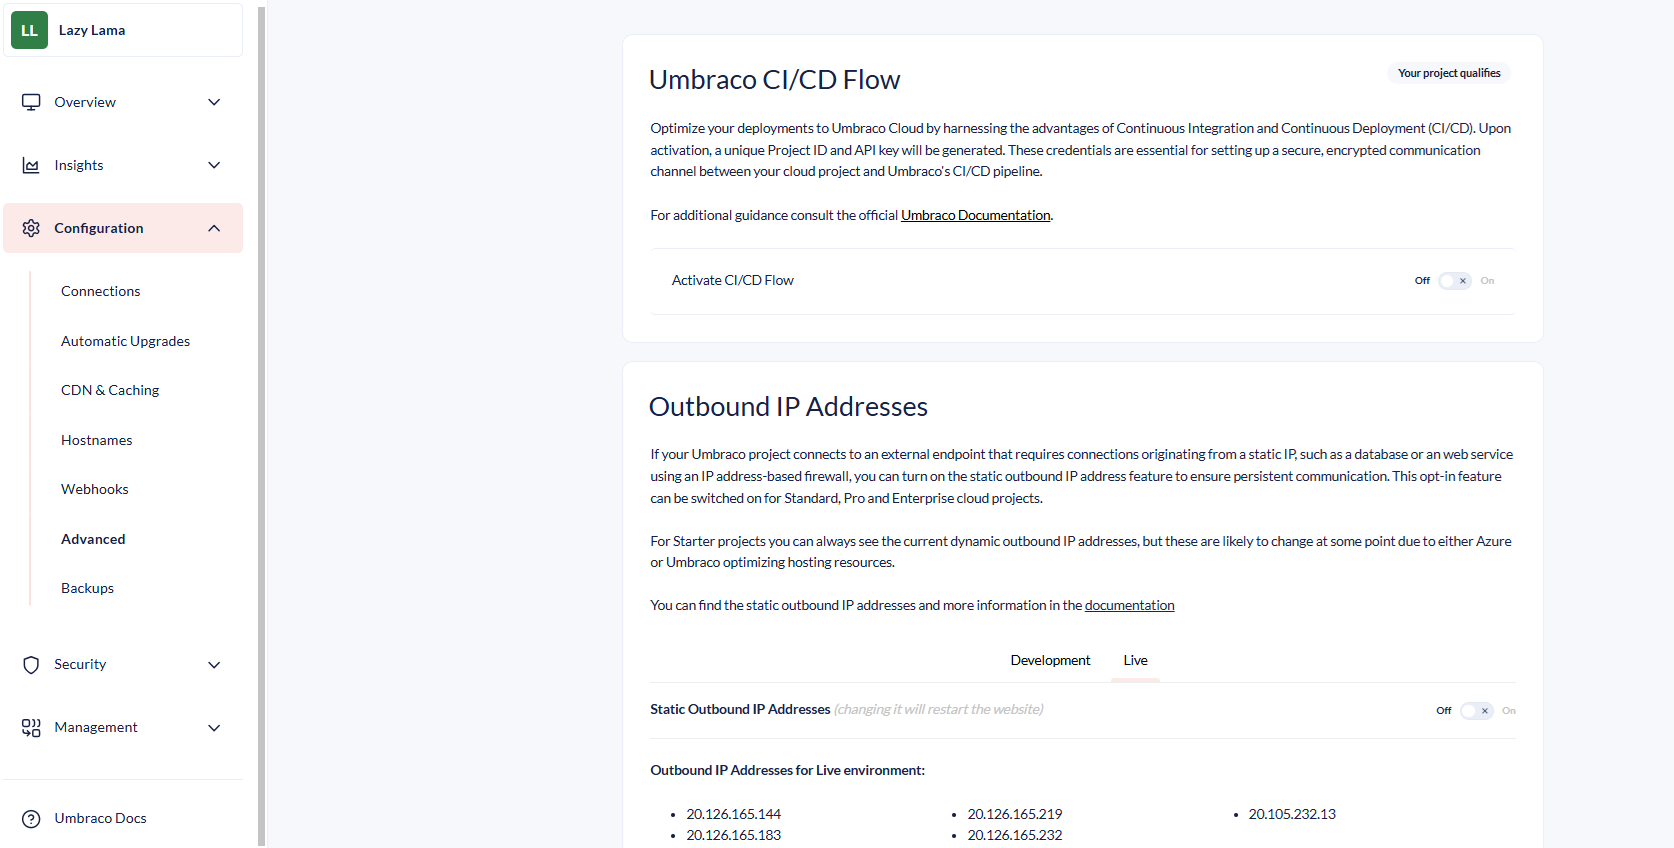
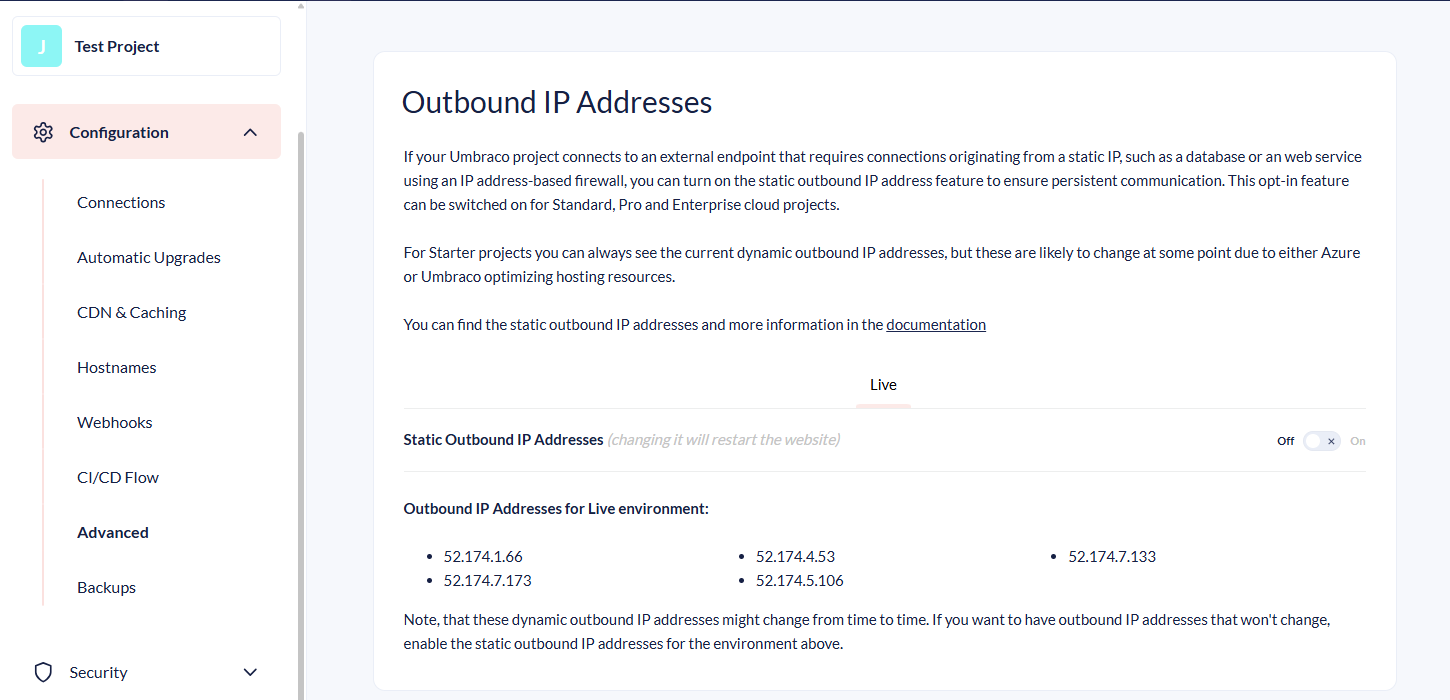
add mention of new standalone cicd page in the cloud portal

diff --git a/umbraco-cloud/build-and-customize-your-solution/set-up-your-project/project-settings/README.md b/umbraco-cloud/build-and-customize-your-solution/set-up-your-project/project-settings/README.md
@@ -113,11 +113,18 @@ You can configure deployment webhooks for your environments in this section. Web
 
 ![Webhooks](images/webhooks.png)
 
+### CI/CD Flow
+
+The CI/CD Flow section allows you to manage settings related to CI/CD deployments:
+
+* [Umbraco CI/CD Flow](../../handle-deployments-and-environments/umbraco-cicd/)
+
+![CI/CD Flow settings](images/cicd-flow-page.png)
+
 ### Advanced
 
 The Advanced section provides options for managing advanced settings for your project, including:
 
-* [Umbraco CI/CD Flow](../../handle-deployments-and-environments/umbraco-cicd/)
 * [Enable static outbound IP addresses](../../../expand-your-projects-capabilities/external-services/#enabling-static-outbound-ip-addresses) for projects on **Standard**, **Professional**, or **Enterprise** plans.
 * Enable IIS logging for each environment. The log files can be accessed in Kudu at `C:\home\LogFiles\http`. IIS logs have a rolling size limit of 100 MB, overwriting the oldest files once the limit is reached.
 * [Enable loading of a client certificate from the file system](application-settings.md#enable-client-certificate-loaded-from-file-system-explained).

diff --git a/umbraco-cloud/build-and-customize-your-solution/handle-deployments-and-environments/umbraco-cicd/umbracocloudapi.md b/umbraco-cloud/build-and-customize-your-solution/handle-deployments-and-environments/umbraco-cicd/umbracocloudapi.md
@@ -42,7 +42,7 @@ You will find relevant examples using `HTTP Request Syntax` in the sections belo
 
 ### How to enable CI/CD Integrator in the Umbraco Cloud Portal
 
-To authenticate with the Umbraco Cloud API, you'll need your Project ID and API Key. These credentials can be found under **Configuration > Advanced** in the Umbraco Cloud portal.
+To authenticate with the Umbraco Cloud API, you'll need your Project ID and API Key. These credentials can be found under **Configuration > CI/CD Flow** in the Umbraco Cloud portal.
 
 ![Umbraco CI/CD Flow](../../set-up-your-project/project-settings/images/Advanced-Section.png)
 

diff --git a/umbraco-cloud/build-and-customize-your-solution/handle-deployments-and-environments/umbraco-cicd/v1-umbraco-cloud-api.md b/umbraco-cloud/build-and-customize-your-solution/handle-deployments-and-environments/umbraco-cicd/v1-umbraco-cloud-api.md
@@ -21,7 +21,7 @@ You will find relevant examples using `Curl` and `Powershell` in the sections be
 
 ### How to enable CI/CD Integrator in the Umbraco Cloud Portal
 
-To authenticate with the Umbraco Cloud API, you'll need your Project ID and API Key. These credentials can be found under **Configuration > Advanced** in the Umbraco Cloud portal.
+To authenticate with the Umbraco Cloud API, you'll need your Project ID and API Key. These credentials can be found under **Configuration > CI/CD Flow** in the Umbraco Cloud portal.
 
 ![Umbraco CI/CD Flow](../../set-up-your-project/project-settings/images/Advanced-Section.png)
 
